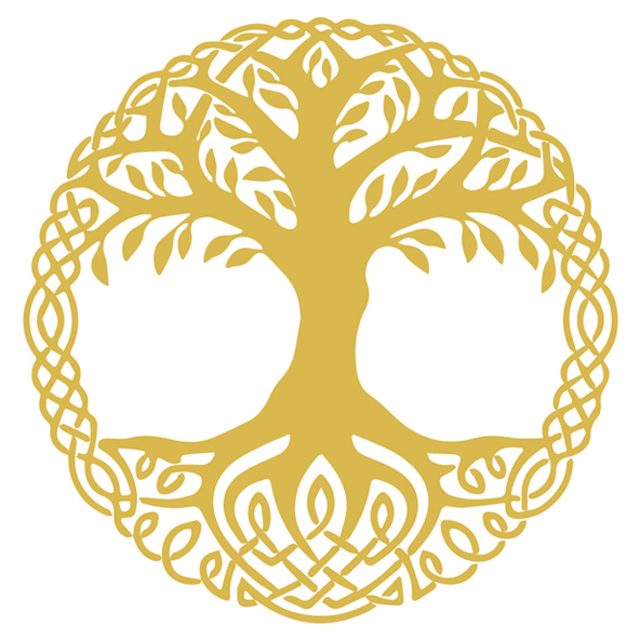
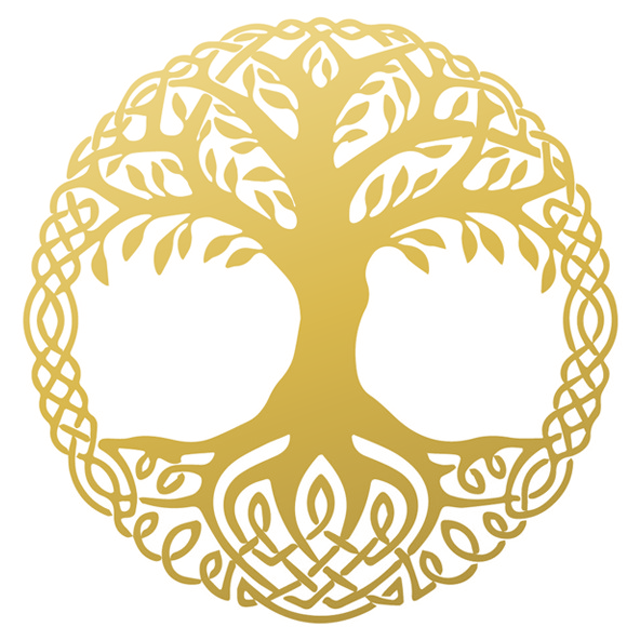
VSB-Siegel: eigene Seite vsb.html (gruen/rot per Klick), ein Licht oben-links (Scheibe/Gold/Schatten/Baum-Gradient), V-S-B groesser + En-Space-Zentrierung, Schrift flaches Gold; Karten-Siegel synchron

Changed region(s): [[0.0312, 0.0312, 0.8438, 0.4375], [0.2812, 0.6562, 0.9375, 1.0], [0.25, 0.875, 0.2812, 0.9062]]

diff --git a/HTML/vsb.html b/HTML/vsb.html
@@ -1,0 +1,96 @@
+<!DOCTYPE html>
+<html lang="de">
+
+<head>
+    <meta charset="UTF-8">
+    <meta name="viewport" content="width=device-width, initial-scale=1, viewport-fit=cover">
+    <title>VSB — vita somnium breve</title>
+    <link rel="icon" type="image/png" href="resources/favicon.png">
+    <style>
+        * { margin: 0; padding: 0; box-sizing: border-box; }
+
+        html, body { height: 100%; }
+
+        body {
+            background: radial-gradient(120% 100% at 50% 30%, rgb(14, 36, 78), rgb(8, 20, 42));
+            display: flex;
+            align-items: center;
+            justify-content: center;
+        }
+
+        svg.seal {
+            width: min(88vw, 88vh);
+            height: min(88vw, 88vh);
+            filter: drop-shadow(10px 18px 44px rgba(0, 0, 0, 0.6));   /* same upper-left light */
+        }
+
+        svg.seal { cursor: pointer; }
+
+        @media print {
+            body { background: #fff; }
+
+            svg.seal { filter: none; }
+        }
+    </style>
+</head>
+
+<body>
+    <!-- the VSB seal, same artwork as on the hiking-checklist cards -->
+    <svg class="seal" viewBox="0 0 100 100" xmlns="http://www.w3.org/2000/svg" role="img"
+        aria-label="VSB Siegel — vita somnium breve">
+        <defs>
+            <path id="vsb-arc" d="M 14 50 A 36 36 0 0 1 86 50" fill="none"/>
+            <!-- bottom arc, same left-to-right direction but through the bottom: glyphs stay upright -->
+            <path id="vsb-arc-b" d="M 14 50 A 36 36 0 0 0 86 50" fill="none"/>
+            <!-- ONE light source, upper-left ~35°: disc highlight, gold gradient axis and
+                 drop-shadow direction all agree (the tree PNG has the same gradient baked in) -->
+            <radialGradient id="vsb-green" cx="38%" cy="30%" r="80%">
+                <stop offset="0%" stop-color="rgb(8,92,52)"/>
+                <stop offset="100%" stop-color="rgb(0,48,27)"/>
+            </radialGradient>
+            <radialGradient id="vsb-red" cx="38%" cy="30%" r="80%">
+                <stop offset="0%" stop-color="rgb(158,34,24)"/>
+                <stop offset="100%" stop-color="rgb(88,14,10)"/>
+            </radialGradient>
+            <linearGradient id="vsb-gold" x1="0.1" y1="0" x2="0.5" y2="1">
+                <stop offset="0%" stop-color="#F3DC8B"/>
+                <stop offset="50%" stop-color="#D4AF37"/>
+                <stop offset="100%" stop-color="#9A7A24"/>
+            </linearGradient>
+            <filter id="vsb-emb" x="-20%" y="-20%" width="140%" height="140%">
+                <feDropShadow dx="0.5" dy="0.7" stdDeviation="0.35" flood-color="#0b0704" flood-opacity="0.6"/>
+            </filter>
+        </defs>
+        <circle id="seal-disc" cx="50" cy="50" r="49" fill="url(#vsb-green)"/>
+        <circle cx="50" cy="50" r="48" fill="none" stroke="url(#vsb-gold)" stroke-width="2.5" filter="url(#vsb-emb)"/>
+        <circle cx="50" cy="50" r="43" fill="none" stroke="url(#vsb-gold)" stroke-width="0.8" filter="url(#vsb-emb)"/>
+        <text font-family="'Times New Roman', Times, serif" font-size="7.25" letter-spacing="1.1"
+            fill="#D4AF37" filter="url(#vsb-emb)">
+            <textPath href="#vsb-arc" startOffset="50%" text-anchor="middle">VITA · SOMNIUM · BREVE</textPath>
+        </text>
+        <image href="tracker/vsb-yggdrasil-gold.png" x="24" y="24" width="52" height="52" filter="url(#vsb-emb)"/>
+        <!-- spacing via en-spaces, NOT letter-spacing: trailing letter-spacing after the
+             last glyph would shift the centered text along the arc (V ends up higher than B) -->
+        <text font-family="'Times New Roman', Times, serif" font-size="9.5"
+            fill="#D4AF37" filter="url(#vsb-emb)">
+            <textPath href="#vsb-arc-b" startOffset="50%" text-anchor="middle">V&#8194;·&#8194;S&#8194;·&#8194;B</textPath>
+        </text>
+    </svg>
+
+    <script>
+        'use strict';
+        // click toggles English Green <-> English Red, choice persists
+        const disc = document.getElementById('seal-disc');
+        const KEY = 'vsb.variant';
+        function apply(v) { disc.setAttribute('fill', v === 'red' ? 'url(#vsb-red)' : 'url(#vsb-green)'); }
+        let variant = localStorage.getItem(KEY) || 'green';
+        apply(variant);
+        document.querySelector('svg.seal').addEventListener('click', () => {
+            variant = variant === 'green' ? 'red' : 'green';
+            localStorage.setItem(KEY, variant);
+            apply(variant);
+        });
+    </script>
+</body>
+
+</html>

diff --git a/HTML/tracker/hikingchecklist.html b/HTML/tracker/hikingchecklist.html
@@ -556,27 +556,30 @@
                 '<path id="vsb-arc" d="M 14 50 A 36 36 0 0 1 86 50" fill="none"/>' +
                 // bottom arc, same left→right direction but through the bottom → glyphs stay upright
                 '<path id="vsb-arc-b" d="M 14 50 A 36 36 0 0 0 86 50" fill="none"/>' +
-                '<radialGradient id="vsb-green" cx="42%" cy="36%" r="75%">' +
-                '<stop offset="0%" stop-color="rgb(6,88,50)"/><stop offset="100%" stop-color="rgb(0,50,28)"/>' +
+                // ONE upper-left light source: disc highlight, gold axis, shadow direction
+                // and the gradient baked into the tree PNG all agree
+                '<radialGradient id="vsb-green" cx="38%" cy="30%" r="80%">' +
+                '<stop offset="0%" stop-color="rgb(8,92,52)"/><stop offset="100%" stop-color="rgb(0,48,27)"/>' +
                 '</radialGradient>' +
-                '<linearGradient id="vsb-gold" x1="0" y1="0" x2="0" y2="1">' +
+                '<linearGradient id="vsb-gold" x1="0.1" y1="0" x2="0.5" y2="1">' +
                 '<stop offset="0%" stop-color="#F3DC8B"/><stop offset="50%" stop-color="#D4AF37"/>' +
                 '<stop offset="100%" stop-color="#9A7A24"/>' +
                 '</linearGradient>' +
                 '<filter id="vsb-emb" x="-20%" y="-20%" width="140%" height="140%">' +
-                '<feDropShadow dx="0.35" dy="0.5" stdDeviation="0.35" flood-color="#001a0e" flood-opacity="0.65"/>' +
+                '<feDropShadow dx="0.5" dy="0.7" stdDeviation="0.35" flood-color="#0b0704" flood-opacity="0.6"/>' +
                 '</filter>' +
                 '</defs>' +
                 '<circle cx="50" cy="50" r="49" fill="url(#vsb-green)"/>' +
                 '<circle cx="50" cy="50" r="48" fill="none" stroke="url(#vsb-gold)" stroke-width="2.5" filter="url(#vsb-emb)"/>' +
                 '<circle cx="50" cy="50" r="43" fill="none" stroke="url(#vsb-gold)" stroke-width="0.8" filter="url(#vsb-emb)"/>' +
-                '<text font-family="\'Times New Roman\', Times, serif" font-size="7.25" letter-spacing="1.1" fill="url(#vsb-gold)" filter="url(#vsb-emb)">' +
+                '<text font-family="\'Times New Roman\', Times, serif" font-size="7.25" letter-spacing="1.1" fill="#D4AF37" filter="url(#vsb-emb)">' +
                 '<textPath href="#vsb-arc" startOffset="50%" text-anchor="middle">VITA · SOMNIUM · BREVE</textPath></text>' +
                 // Doc's celtic Yggdrasil, gold on the seal green (white mapped to the green ground)
                 '<image href="vsb-yggdrasil-gold.png" x="24" y="24" width="52" height="52" filter="url(#vsb-emb)"/>' +
                 // same font & treatment as the motto arc above — just on the bottom path
-                '<text font-family="\'Times New Roman\', Times, serif" font-size="7.25" letter-spacing="4" fill="url(#vsb-gold)" filter="url(#vsb-emb)">' +
-                '<textPath href="#vsb-arc-b" startOffset="50%" text-anchor="middle">V · S · B</textPath></text>' +
+                // en-spaces instead of letter-spacing: trailing spacing would de-center the arc text
+                '<text font-family="\'Times New Roman\', Times, serif" font-size="9.5" fill="#D4AF37" filter="url(#vsb-emb)">' +
+                '<textPath href="#vsb-arc-b" startOffset="50%" text-anchor="middle">V · S · B</textPath></text>' +
                 '</svg>';
             $('sheet-front').innerHTML = front.map(l =>
                 '<div class="pcard"><img class="sky" src="checklist-sky.jpg" alt="">' +

diff --git a/HTML/new.html b/HTML/new.html
@@ -176,6 +176,7 @@
         <a class="tool-card" href="vgp/vgpchat.html"><span class="tool-name">VGP — very good privacy</span><span class="tool-file">vgp/vgpchat.html</span></a>
         <a class="tool-card" href="voicerecorder/voicerecorder.html"><span class="tool-name">Voice Recorder</span><span class="tool-file">voicerecorder/voicerecorder.html</span></a>
         <a class="tool-card" href="voicerecorder/index.html"><span class="tool-name">Voice Recorder — Landing</span><span class="tool-file">voicerecorder/index.html</span></a>
+        <a class="tool-card" href="vsb.html"><span class="tool-name">VSB — Siegel</span><span class="tool-file">vsb.html</span></a>
         <a class="tool-card" href="tracker/hikingchecklist.html"><span class="tool-name">Wander-Checkliste (VSB)</span><span class="tool-file">tracker/hikingchecklist.html</span></a>
         <a class="tool-card" href="wedrive/wedrive.html"><span class="tool-name">WeDrive</span><span class="tool-file">wedrive/wedrive.html</span></a>
         <a class="tool-card" href="worldclock/worldclock.html"><span class="tool-name">Weltuhr</span><span class="tool-file">worldclock/worldclock.html</span></a>
